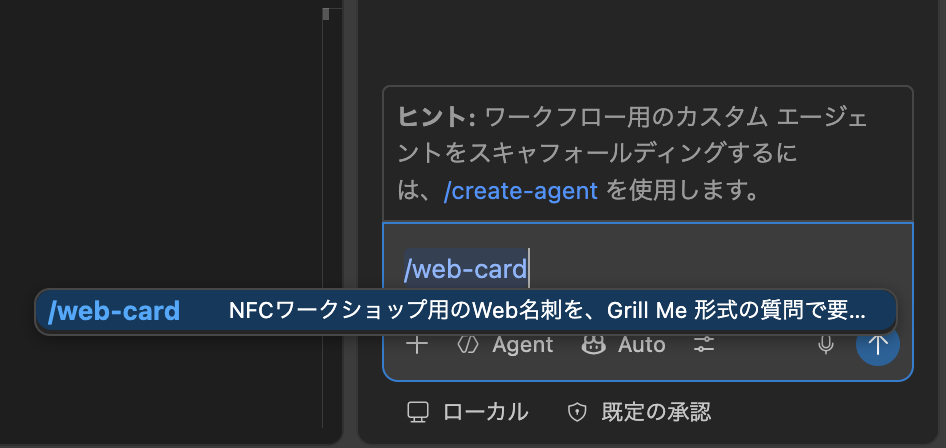
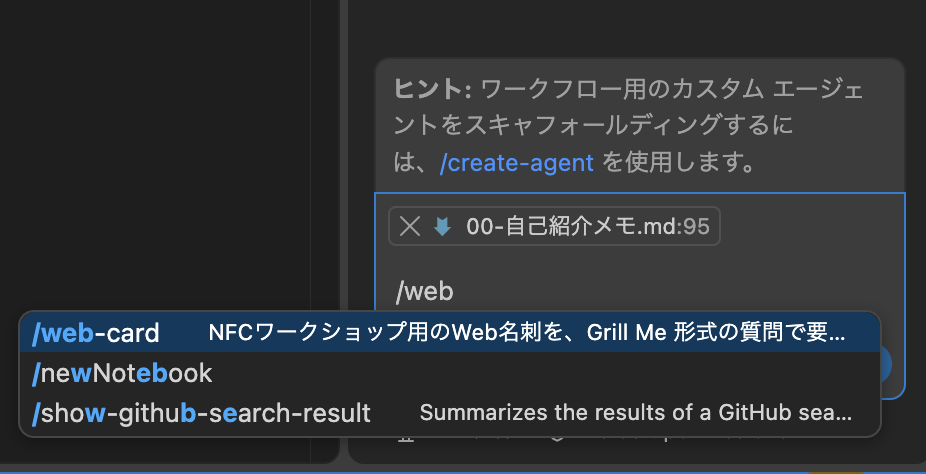
docs: ガイドをWS当日向けに更新
VS CodeからのGitHub公開とPages手順にスクショを追加し、
メモは決まっている人はコピペ、未定なら当日口頭案内に整理する。

diff --git a/guide/02-サイト制作.md b/guide/02-サイト制作.md
@@ -2,17 +2,17 @@
 
 `starter/` を、自分のWeb名刺に書き換えます。静的な HTML / CSS / JS だけで作ります。
 
-## 1. 自己紹介メモを書く（3分）
+## 1. 自己紹介メモを用意する
 
-`/web-card` を使う前に、[00-自己紹介メモ.md](./00-自己紹介メモ.md) を開いて埋めてください。
+載せる内容が決まっている人は、[00-自己紹介メモ.md](./00-自己紹介メモ.md) を埋めて、次のステップでそのままコピペしてください。
 
-メモを渡すと Copilot は書いてある項目を質問せずに確認だけします。空欄の項目だけ追加で聞きます。住所・電話番号・社外秘は載せないでください。
+まだ決まっていない人は、当日の進行でメモ作りから入ります（口頭で案内します）。住所・電話番号・社外秘は載せないでください。
 
-## 2. 要件を固める
+## 2. 要件を固めて実装する
 
 ### VS Code の Copilot を使う場合
 
-チャットを Agent にして、メモを貼りながら送ります。
+チャットを Agent にして、メモをコピペして送ります。
 
 モデルは **GPT 系を推奨** します。雰囲気やレイアウトの提案が決まりやすいです。必須ではないので、他のモデルに切り替えて試してみるのもおすすめです。
 
@@ -22,7 +22,7 @@
 ---（00-自己紹介メモ.md の中身をここに貼る）---
 ```
 
-メモなしで始めることもできます。その場合は Copilot がすべての項目を順番に聞きます。
+メモがまだ薄いときは、そのまま `/web-card` だけ送っても構いません。足りない項目は質問されます。
 
 ```
 /web-card

diff --git a/README.md b/README.md
@@ -47,8 +47,8 @@ nfc-web-card-workshop/
 1. このリポジトリを ZIP でダウンロードして解凍する
 2. VS Code でそのフォルダを開く
 3. `starter/index.html` をブラウザで開いて、初期状態を確認する
-4. [guide/00-自己紹介メモ.md](./guide/00-自己紹介メモ.md) を開いて3分で埋める
-5. Copilot チャット（Agent）でメモを貼りながら `/web-card` を送る
+4. 載せる内容が決まっていれば [guide/00-自己紹介メモ.md](./guide/00-自己紹介メモ.md) を埋める。決まっていなければ、当日の進行でメモ作りから入る
+5. Copilot チャット（Agent）にメモをコピペして `/web-card` を送る
 
    モデルは GPT 系を推奨（必須ではない。他モデルも試してよい）。
 
@@ -58,7 +58,7 @@ nfc-web-card-workshop/
    ---（メモの中身）---
    ```
 
-   書いてある項目は確認だけ、空欄は質問される。確認が取れるまで実装は始まらない。
+   確認が取れるまで実装は始まらない。
 
 6. 公開と書き込みは [guide/03-GitHub公開.md](./guide/03-GitHub公開.md) と [guide/04-NFC書き込み.md](./guide/04-NFC書き込み.md) へ
 

diff --git a/guide/01-事前準備.md b/guide/01-事前準備.md
@@ -12,6 +12,8 @@
 
 フォルダ名は `nfc-web-card-workshop-main` のようになることがあります。そのままで問題ありません。
 
+![zip](./img/download-zip.png)
+
 ## 2. VS Code でフォルダを開く
 
 1. Visual Studio Code を開く
@@ -35,6 +37,8 @@
 ## 4. GitHubアカウント
 
 公開のときに使います。まだなら [GitHub](https://github.com/signup) で作成してください。無料アカウントで十分です。
+
+あとで VS Code から公開するので、VS Code 側でも GitHub にサインインしておいてください（左下のアカウントアイコン、またはコマンドパレットの `GitHub: Sign in`）。
 
 ## 5. NFC書き込みアプリ
 

diff --git a/guide/00-自己紹介メモ.md b/guide/00-自己紹介メモ.md
@@ -1,7 +1,9 @@
 # 00. 自己紹介メモ
 
-`/web-card` を使う前に、3分でここを埋めてください。
-埋めた内容を Copilot に貼ると、質問が減って実装が早く進みます。
+載せる内容が決まっている人は、ここを埋めてから `/web-card` にコピペしてください。
+まだ決まっていない人は、当日の進行でまずこのメモから一緒に埋めます（口頭で案内します）。
+
+埋めた内容を Copilot や ChatGPT に渡すと、要件が固まりやすくなります。
 
 ---
 
